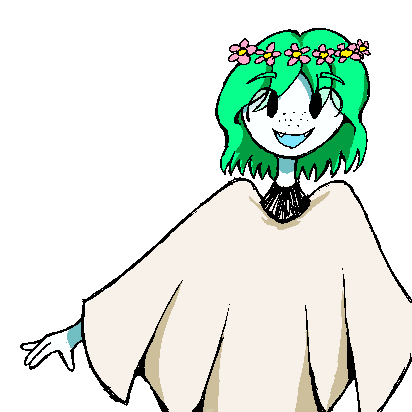
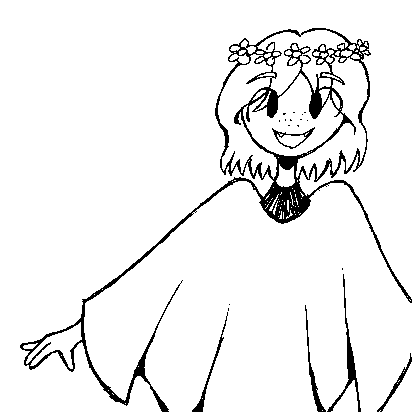
update art

diff --git a/src/app/(penguin)/b/art/page.tsx b/src/app/(penguin)/b/art/page.tsx
@@ -13,7 +13,10 @@ export default function Page() {
                 <div>
                     All drawings posted here are in reverse chronological order.
                 </div>
-                <Image src="/assets/b/art/ghost_alice.png" alt="alice" height={300} width={300} />
+                <div className="flex justify-center space-x-4">
+                    <Image src="/assets/b/art/ghost_alice2.png" alt="alice" height={300} width={300} />
+                    <Image src="/assets/b/art/ghost_alice.png" alt="alice" height={300} width={300} />
+                </div>
                 <div>Ghost character I hope to include in futuer games.</div>
                 <Image src="/assets/b/art/mao.png" alt="mao" height={300} width={300} />
                 <div>Mao from <a href="/b/projects/zodiactail">Zodiac Tail</a>, drawn in 2024.</div>
